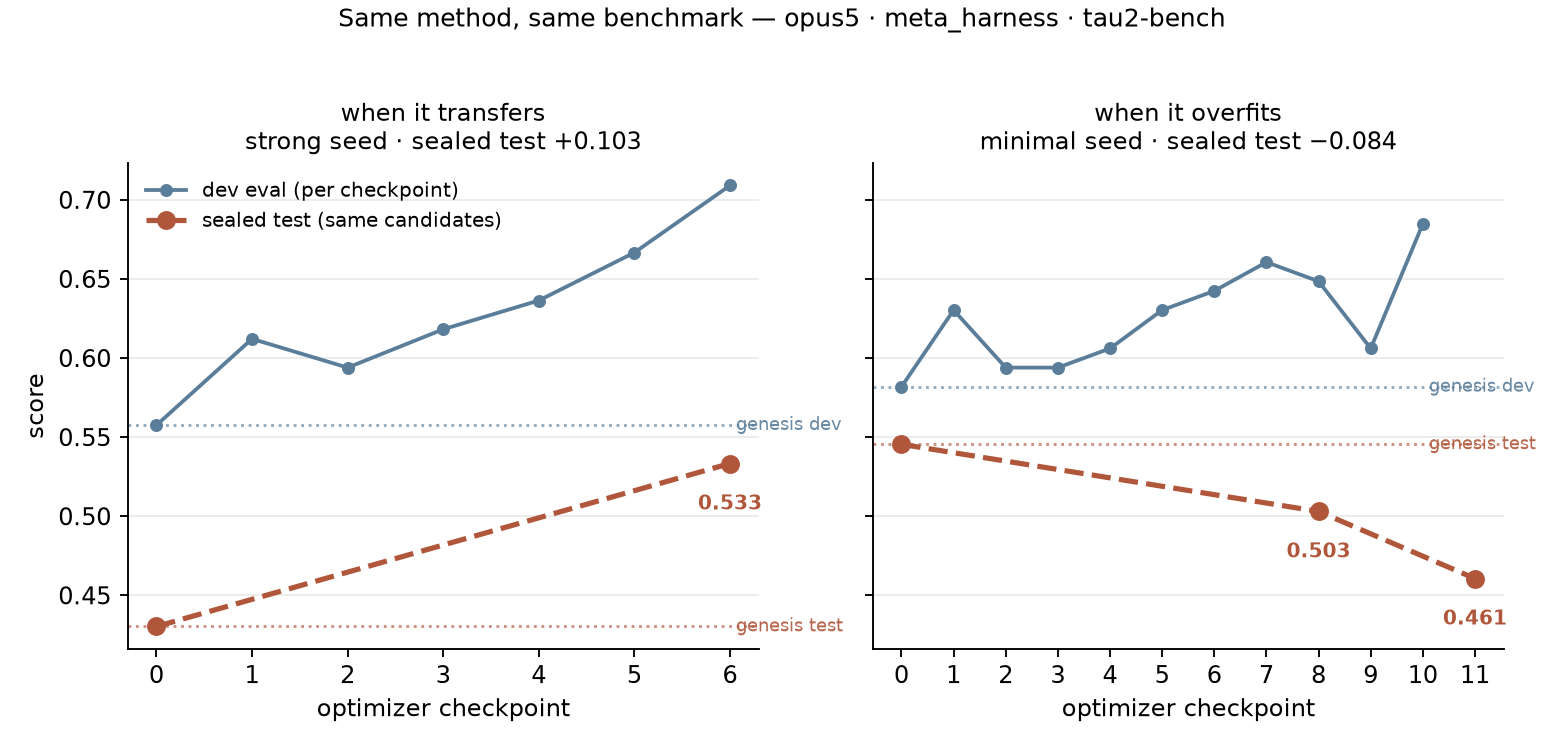
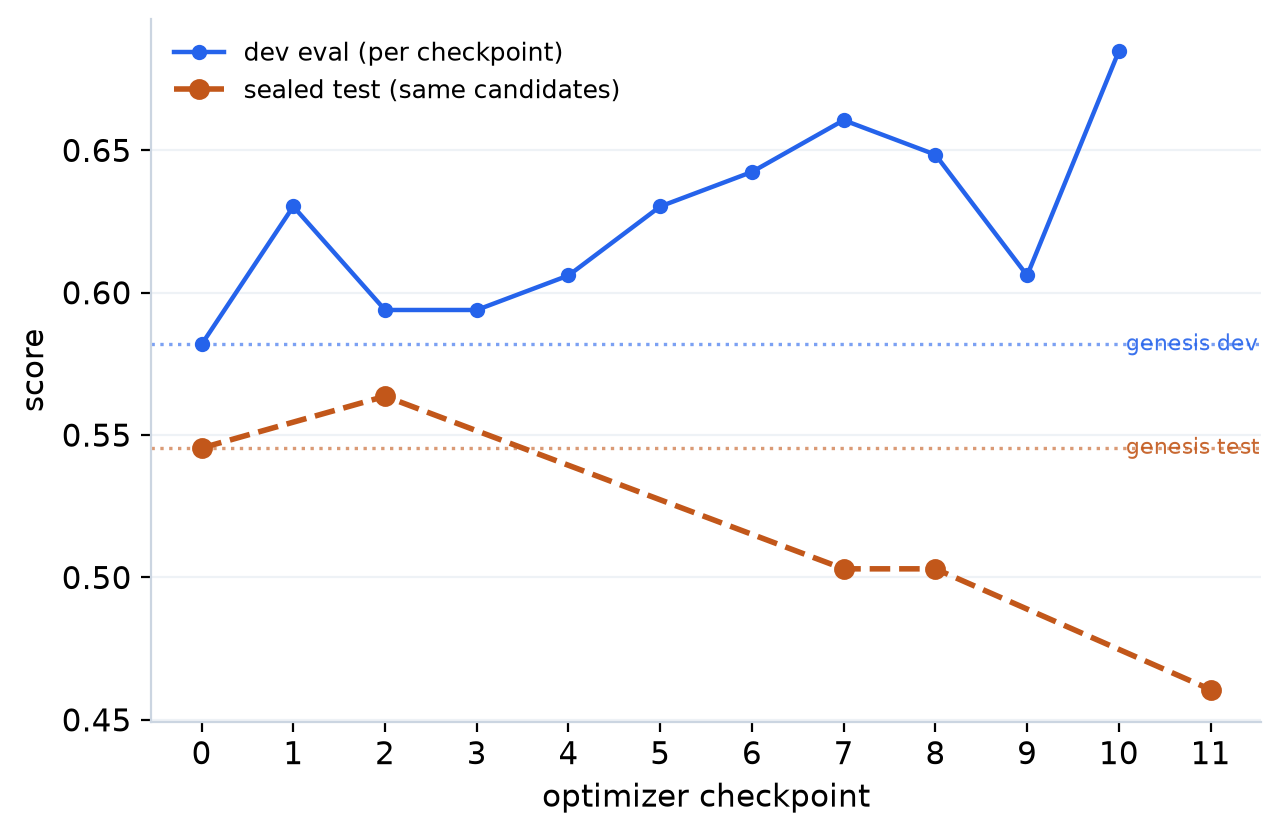
Add single-run case study: densified 5-point sealed-test curve
opus5-tau2-minimal-mh with all five distinct candidates posthoc-scored
(3 reps each): dev climbs 0.582→0.685 while sealed test peaks at
checkpoint 2 (0.564) and decays to 0.461. Figure restyled to house
palette, single panel per feedback.

diff --git a/posts/the-benchmark/figures/make_dev_test_case.py b/posts/the-benchmark/figures/make_dev_test_case.py
@@ -1,19 +1,16 @@
 #!/usr/bin/env python3
-"""Case study diptych: dev vs sealed-test score over two optimization runs.
+"""Case study: dev vs sealed-test score over one optimization run.
 
-Left: opus5-tau2-strong-mh — the corpus's cleanest positive transfer (dev
-0.558→0.709 and sealed test 0.430→0.533). Right: opus5-tau2-minimal-mh — the
-most striking divergence (dev climbs +0.10 while sealed test of the same
-candidates falls 0.545→0.503→0.461). Same benchmark, same method, same meta
-model; only the seed tier differs.
+opus5-tau2-minimal-mh — the corpus's most striking divergence. The run's own
+per-checkpoint dev evals climb from 0.630 to a selected best of 0.685 while the
+sealed-test score of the same candidates rises briefly (0.545 → 0.564 at
+checkpoint 2) and then decays monotonically to 0.461: the method held its true
+best candidate early and optimized past it. All five distinct candidates the
+run produced are posthoc-scored on sealed test (3 reps each), each placed at
+the checkpoint where its candidate first appeared.
 
-Blue solid = the run's own per-checkpoint dev evals (noisy — the same candidate
-can re-score 0.58→0.63 back to back). Red dashed = sealed-test scores of the
-candidates the posthoc pass covered (genesis / dev-selected / final), each
-placed at the checkpoint where its candidate first appeared. Dotted horizontal
-lines mark genesis (seed) performance on each split.
-
-    /tmp/.viztest-venv/bin/python make_dev_test_case.py
+Reads the run corpus live from the visualizer API.
+Regenerate: /tmp/.viztest-venv/bin/python make_dev_test_case.py
 """
 from __future__ import annotations
 
@@ -27,71 +24,64 @@ import matplotlib.pyplot as plt  # noqa: E402
 
 HERE = Path(__file__).resolve().parent
 API = "http://127.0.0.1:8765/api/overview"
+RUN_ID = "opus5-tau2-minimal-mh"
+BLUE, ORANGE = "#2563eb", "#c2571a"          # dev, sealed test (house palette)
 
-DEV = "#5a7d9a"
-TEST = "#b0563a"
-
-PANELS = [
-    ("opus5-tau2-strong-mh", "when it transfers\nstrong seed · sealed test +0.103"),
-    ("opus5-tau2-minimal-mh", "when it overfits\nminimal seed · sealed test −0.084"),
-]
+plt.rcParams.update({
+    "font.family": "DejaVu Sans", "font.size": 11,
+    "axes.edgecolor": "#cbd5e1", "axes.linewidth": 0.8,
+    "figure.facecolor": "white", "savefig.facecolor": "white",
+    "savefig.bbox": "tight", "savefig.dpi": 200,
+})
 
 
 def collect():
     with urllib.request.urlopen(API, timeout=30) as fh:
         rows = json.load(fh)
     runs = rows if isinstance(rows, list) else rows.get("runs", rows)
-    return {r["run_id"]: r for r in runs}
+    return next(r for r in runs if r["run_id"] == RUN_ID)
 
 
 def main():
-    byid = collect()
-    fig, axes = plt.subplots(1, 2, figsize=(9.2, 4.4), sharey=True)
+    r = collect()
+    curve, tcurve = r["curve"], r["test_curve"]
 
-    for ax, (run_id, title) in zip(axes, PANELS):
-        r = byid[run_id]
-        curve, tcurve = r["curve"], r["test_curve"]
+    dx = [p["i"] for p in curve if p["score"] is not None]
+    dy = [p["score"] for p in curve if p["score"] is not None]
+    first_at = {}
+    for p in curve:
+        first_at.setdefault(p["hash"], p["i"])
+    tpts = sorted((first_at[p["hash"]], p["score"]) for p in tcurve)
+    tx, ty = [x for x, _ in tpts], [y for _, y in tpts]
+    print("test points:", [(x, round(y, 3)) for x, y in tpts])
 
-        dx = [p["i"] for p in curve if p["score"] is not None]
-        dy = [p["score"] for p in curve if p["score"] is not None]
-        first_at = {}
-        for p in curve:
-            first_at.setdefault(p["hash"], p["i"])
-        tx = [first_at[p["hash"]] for p in tcurve]
-        ty = [p["score"] for p in tcurve]
-        print(run_id, "test points:", [(x, round(y, 3)) for x, y in zip(tx, ty)])
+    fig, ax = plt.subplots(figsize=(6.6, 4.3))
 
-        # dotted genesis reference lines, one per split
-        ax.axhline(dy[0], color=DEV, ls=":", lw=1.2, alpha=0.65, zorder=1)
-        ax.axhline(ty[0], color=TEST, ls=":", lw=1.2, alpha=0.65, zorder=1)
-        xmax = max(dx)
-        ax.text(xmax, dy[0], " genesis dev", fontsize=7.5, color=DEV,
-                ha="left", va="center", alpha=0.9, clip_on=False)
-        ax.text(xmax, ty[0], " genesis test", fontsize=7.5, color=TEST,
-                ha="left", va="center", alpha=0.9, clip_on=False)
+    # dotted genesis reference lines, one per split
+    xmax = max(dx)
+    ax.axhline(dy[0], color=BLUE, ls=":", lw=1.2, alpha=0.6, zorder=1)
+    ax.axhline(ty[0], color=ORANGE, ls=":", lw=1.2, alpha=0.6, zorder=1)
+    ax.text(xmax, dy[0], " genesis dev", fontsize=8, color=BLUE,
+            ha="left", va="center", alpha=0.9, clip_on=False)
+    ax.text(xmax, ty[0], " genesis test", fontsize=8, color=ORANGE,
+            ha="left", va="center", alpha=0.9, clip_on=False)
 
-        ax.plot(dx, dy, "o-", color=DEV, lw=1.6, ms=4.5, zorder=3,
-                label="dev eval (per checkpoint)")
-        ax.plot(tx, ty, "o--", color=TEST, lw=2.2, ms=7, zorder=4,
-                label="sealed test (same candidates)")
-        for x, y in zip(tx[1:], ty[1:]):  # genesis is already labeled by its line
-            ax.annotate(f"{y:.3f}", (x, y), xytext=(0, -13),
-                        textcoords="offset points", ha="center", va="top",
-                        fontsize=8.5, color=TEST, fontweight="bold")
+    ax.plot(dx, dy, "o-", color=BLUE, lw=1.6, ms=4.5, zorder=3,
+            label="dev eval (per checkpoint)")
+    ax.plot(tx, ty, "o--", color=ORANGE, lw=2.0, ms=6.5, zorder=4,
+            label="sealed test (same candidates)")
 
-        ax.set_title(title, fontsize=10)
-        ax.set_xlabel("optimizer checkpoint")
-        ax.set_xticks(sorted({p["i"] for p in curve}))
-        ax.spines[["top", "right"]].set_visible(False)
-        ax.grid(axis="y", alpha=0.25)
+    ax.set_xlabel("optimizer checkpoint")
+    ax.set_ylabel("score")
+    ax.set_xticks(sorted({p["i"] for p in curve}))
+    ax.spines[["top", "right"]].set_visible(False)
+    ax.grid(axis="y", color="#eef2f6", zorder=0)
+    ax.set_axisbelow(True)
+    ax.legend(loc="upper left", fontsize=9, frameon=False)
 
-    axes[0].set_ylabel("score")
-    axes[0].legend(loc="upper left", frameon=False, fontsize=8.5)
-    fig.suptitle("Same method, same benchmark — opus5 · meta_harness · tau2-bench",
-                 fontsize=10.5, y=0.99)
-    fig.tight_layout(rect=(0, 0, 1, 0.97))
+    fig.tight_layout()
     out = HERE / "dev_test_case.png"
-    fig.savefig(out, dpi=170)
+    fig.savefig(out)
     print("wrote", out)
 
 
